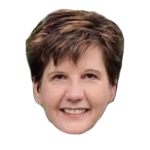
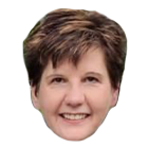
resized images

diff --git a/styles.css b/styles.css
@@ -44,14 +44,14 @@ a, a:link, a:visited, a:hover, a:active {
 .bPressed {
     color: transparent;
     background-image: url("images/b.png");
-    background-size: 90%;
+    background-size: 100%;
     background-repeat: no-repeat;
 }
 
 .cPressed {
     color: transparent;
     background-image: url("images/c.png");
-    background-size: 90%;
+    background-size: 100%;
     background-repeat: no-repeat;
 }
 
